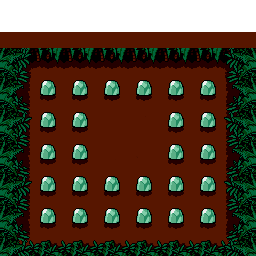
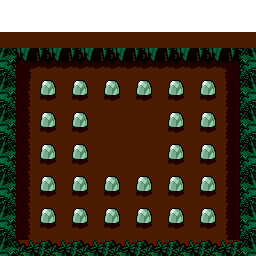
coliders perfectes com al joc

diff --git a/L10_Project_Gamepad_and_Fullscreen_handout/Source/SceneLevel1.cpp b/L10_Project_Gamepad_and_Fullscreen_handout/Source/SceneLevel1.cpp
@@ -26,7 +26,7 @@ bool SceneLevel1::Start()
 
 	bool ret = true;
 
-	bgTexture = App->textures->Load("Assets/Map/mapa.png");
+	bgTexture = App->textures->Load("Assets/Map/Mapa.png");
 	App->audio->PlayMusic("Assets/Audio/music/Area_1.ogg", 1.0f);
 	loseScreen = App->textures->Load("Assets/Screens/lose.PNG");
 	winScreen = App->textures->Load("Assets/Screens/win.PNG");
@@ -37,11 +37,11 @@ bool SceneLevel1::Start()
 
 //Limits
 //Bottom
-	App->collisions->AddCollider({ 0, 242, 600, 16 }, Collider::Type::WALL);
+	App->collisions->AddCollider({ 0, 239, 600, 17 }, Collider::Type::WALL);
 	//Top
-	App->collisions->AddCollider({ 0, 33, 600, 30 }, Collider::Type::WALL);
+	App->collisions->AddCollider({ 0, 0, 600, 57 }, Collider::Type::WALL);
 	//Left
-	App->collisions->AddCollider({ 0, 33, 24, 600 }, Collider::Type::WALL);
+	App->collisions->AddCollider({ 0, 33, 25, 600 }, Collider::Type::WALL);
 	//Right
 	App->collisions->AddCollider({ 232, 33, 25, 600 }, Collider::Type::WALL);
 
@@ -50,18 +50,18 @@ bool SceneLevel1::Start()
 
 	//First two columns colliders
 	//Fila 1
-	App->collisions->AddCollider({ 42, 83, 13, 10 }, Collider::Type::WALL);
-	App->collisions->AddCollider({ 74, 83, 13, 10 }, Collider::Type::WALL);
-	App->collisions->AddCollider({ 106, 83, 13, 10 }, Collider::Type::WALL);
-	App->collisions->AddCollider({ 138, 83, 13, 10 }, Collider::Type::WALL);
-	App->collisions->AddCollider({ 170, 83, 13, 10 }, Collider::Type::WALL);
-	App->collisions->AddCollider({ 202, 83, 13, 10 }, Collider::Type::WALL);
+	App->collisions->AddCollider({ 40, 79, 16, 10 }, Collider::Type::WALL);//1
+	App->collisions->AddCollider({ 73, 79, 16, 10 }, Collider::Type::WALL);//2
+	App->collisions->AddCollider({ 104, 79, 16, 10 }, Collider::Type::WALL);//3
+	App->collisions->AddCollider({ 136, 79, 16, 10 }, Collider::Type::WALL);//4
+	App->collisions->AddCollider({ 168, 79, 16, 10 }, Collider::Type::WALL);//5
+	App->collisions->AddCollider({ 200, 79, 16, 10 }, Collider::Type::WALL);//6
 
 	//Fila 2
-	App->collisions->AddCollider({ 42, 115, 13, 10 }, Collider::Type::WALL);
-	App->collisions->AddCollider({ 74, 115, 13, 10 }, Collider::Type::WALL);
-	App->collisions->AddCollider({ 170, 115, 13, 10 }, Collider::Type::WALL);
-	App->collisions->AddCollider({ 202, 115, 13, 10 }, Collider::Type::WALL);
+	App->collisions->AddCollider({ 40, 111, 16, 10 }, Collider::Type::WALL);
+	App->collisions->AddCollider({ 73, 111, 16, 10 }, Collider::Type::WALL);
+	App->collisions->AddCollider({ 168, 111, 16, 10 }, Collider::Type::WALL);
+	App->collisions->AddCollider({ 200, 111, 16, 10 }, Collider::Type::WALL);
 
 	//machine
 	App->collisions->AddCollider({ 105, 117, 46, 22 }, Collider::Type::WALL);
@@ -69,35 +69,38 @@ bool SceneLevel1::Start()
 	App->collisions->AddCollider({ 136, 139, 15, 15 }, Collider::Type::WALL);
 	App->collisions->AddCollider({ 120, 139, 14, 14 }, Collider::Type::MACHINE);
 
-	//
+	//PowerUp
 	App->collisions->AddCollider({ 89 ,80, 15,15 }, Collider::Type::POWERUP);
+
 	//Fila 3
-	App->collisions->AddCollider({ 42, 147, 13, 10 }, Collider::Type::WALL);
-	App->collisions->AddCollider({ 74, 147, 13, 10 }, Collider::Type::WALL);
-	App->collisions->AddCollider({ 170, 147, 13, 10 }, Collider::Type::WALL);
-	App->collisions->AddCollider({ 202, 147, 13, 10 }, Collider::Type::WALL);
+	App->collisions->AddCollider({ 40, 143, 16, 10 }, Collider::Type::WALL);
+	App->collisions->AddCollider({ 73, 143, 16, 10 }, Collider::Type::WALL);
+	App->collisions->AddCollider({ 168, 143, 16, 10 }, Collider::Type::WALL);
+	App->collisions->AddCollider({ 200, 143, 16, 10 }, Collider::Type::WALL);
 
 	//Fila 4
-	App->collisions->AddCollider({ 42, 179, 13, 10 }, Collider::Type::WALL);
-	App->collisions->AddCollider({ 74, 179, 13, 10 }, Collider::Type::WALL);
-	App->collisions->AddCollider({ 106, 179, 13, 10 }, Collider::Type::WALL);
-	App->collisions->AddCollider({ 138, 179, 13, 10 }, Collider::Type::WALL);
-	App->collisions->AddCollider({ 170, 179, 13, 10 }, Collider::Type::WALL);
-	App->collisions->AddCollider({ 202, 179, 13, 10 }, Collider::Type::WALL);
+	App->collisions->AddCollider({ 40, 175, 16, 10 }, Collider::Type::WALL);//1
+	App->collisions->AddCollider({ 73, 175, 16, 10 }, Collider::Type::WALL);//2
+	App->collisions->AddCollider({ 104, 175, 16, 10 }, Collider::Type::WALL);//3
+	App->collisions->AddCollider({ 136, 175, 16, 10 }, Collider::Type::WALL);//4
+	App->collisions->AddCollider({ 168, 175, 16, 10 }, Collider::Type::WALL);//5
+	App->collisions->AddCollider({ 200, 175, 16, 10 }, Collider::Type::WALL);//6
 
 	//Fila 5
-	App->collisions->AddCollider({ 42, 211, 13, 10 }, Collider::Type::WALL);
-	App->collisions->AddCollider({ 74, 211, 13, 10 }, Collider::Type::WALL);
-	App->collisions->AddCollider({ 106, 211, 13, 10 }, Collider::Type::WALL);
-	App->collisions->AddCollider({ 138, 211, 13, 10 }, Collider::Type::WALL);
-	App->collisions->AddCollider({ 170, 211, 13, 10 }, Collider::Type::WALL);
-	App->collisions->AddCollider({ 202, 211, 13, 10 }, Collider::Type::WALL);
+	App->collisions->AddCollider({ 40, 207, 16, 10 }, Collider::Type::WALL);//1
+	App->collisions->AddCollider({ 73, 207, 16, 10 }, Collider::Type::WALL);//2
+	App->collisions->AddCollider({ 104, 207, 16, 10 }, Collider::Type::WALL);//3
+	App->collisions->AddCollider({ 136, 207, 16, 10 }, Collider::Type::WALL);//4
+	App->collisions->AddCollider({ 168, 207, 16, 10 }, Collider::Type::WALL);//5
+	App->collisions->AddCollider({ 200, 207, 16, 10 }, Collider::Type::WALL);//6
 
+	//flower collider
+	App->collisions->AddCollider({ 56, 111, 15, 10 }, Collider::Type::WALL);
 
 	// Enemies ---
 	App->enemies->AddEnemy(Enemy_Type::REDBIRD, 150, 220);
 	App->enemies->AddEnemy(Enemy_Type::CARGOL, 182, 114);
-	App->enemies->AddEnemy(Enemy_Type::PLANT, 182, 114);
+	App->enemies->AddEnemy(Enemy_Type::PLANT, 56, 112);
 
 
 	App->render->camera.x = 0;

diff --git a/L10_Project_Gamepad_and_Fullscreen_handout/Source/ModulePlayer.cpp b/L10_Project_Gamepad_and_Fullscreen_handout/Source/ModulePlayer.cpp
@@ -89,7 +89,7 @@ bool ModulePlayer::Start()
 	win = false;
 
 	// L6: DONE 3: Add a collider to the player
-	collider = App->collisions->AddCollider({ position.x, position.y, 15, 20 }, Collider::Type::PLAYER, this);
+	collider = App->collisions->AddCollider({ position.x, position.y, 15, 22 }, Collider::Type::PLAYER, this);
 
 	char lookupTable[] = { "! @,_./0123456789$;< ?abcdefghijklmnopqrstuvwxyz" };
 	scoreFont = App->fonts->Load("Assets/Fonts/rtype_font3.png", lookupTable, 2);

diff --git a/L10_Project_Gamepad_and_Fullscreen_handout/Source/ModuleCollisions.cpp b/L10_Project_Gamepad_and_Fullscreen_handout/Source/ModuleCollisions.cpp
@@ -148,6 +148,9 @@ void ModuleCollisions::DebugDraw()
 			case Collider::Type::ENEMY_SHOT: // magenta
 			App->render->DrawRectangle(colliders[i]->rect, SDL_Color{ 0, 255, 255, alpha });
 			break;
+			case Collider::Type::FLOWER: // magenta
+				App->render->DrawRectangle(colliders[i]->rect, SDL_Color{ 0, 255, 255, alpha });
+				break;
 		}
 	}
 }
